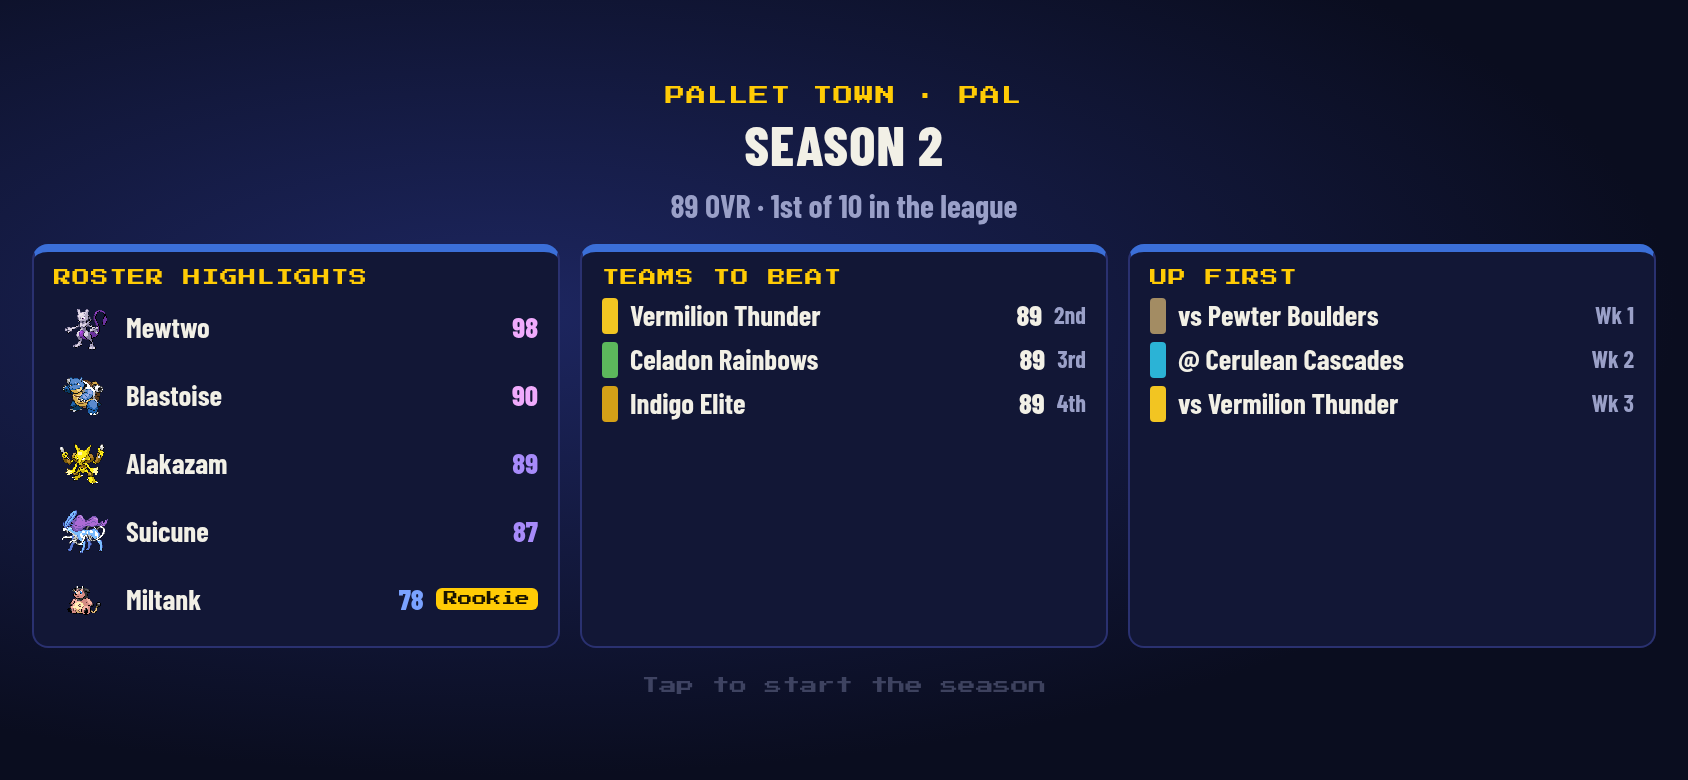
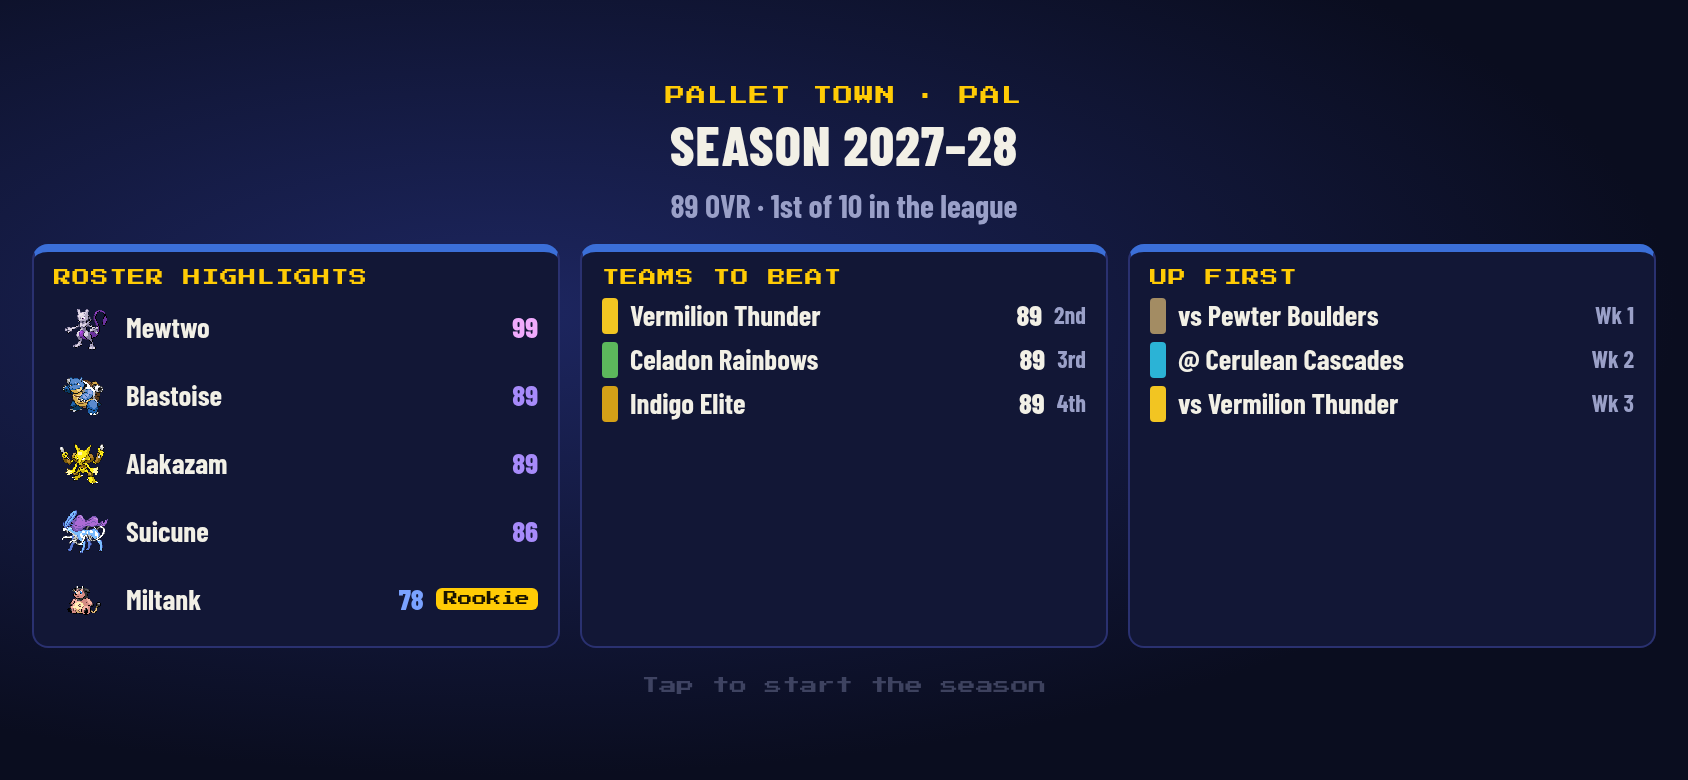
Franchise moments: year-range season labels (2026–27)

Changed region(s): [[0.4005, 0.1538, 0.6161, 0.2154], [0.2773, 0.4923, 0.3389, 0.5231], [0.3081, 0.6769, 0.3389, 0.7077]]

diff --git a/src/franchise/moments.test.ts b/src/franchise/moments.test.ts
@@ -101,11 +101,18 @@ describe('where the user finished', () => {
 describe('new-season preview trigger', () => {
   it('counts the season label up each year', () => {
     const f = league();
-    expect(seasonLabel(f.season)).toBe('Season 1');
+    expect(seasonLabel(f.season)).toBe('2026–27');
     nextSeason(f);
-    expect(seasonLabel(f.season)).toBe('Season 2');
+    expect(seasonLabel(f.season)).toBe('2027–28');
     nextSeason(f);
-    expect(seasonLabel(f.season)).toBe('Season 3');
+    expect(seasonLabel(f.season)).toBe('2028–29');
+  });
+
+  it('keeps the end year to two digits across decade and century boundaries', () => {
+    expect(seasonLabel(4)).toBe('2029–30');
+    expect(seasonLabel(73)).toBe('2098–99');
+    expect(seasonLabel(74)).toBe('2099–00');
+    expect(seasonLabel(75)).toBe('2100–01');
   });
 
   it('does not show in the first season, shows at the start of later ones, and only once', () => {

diff --git a/src/franchise/moments.ts b/src/franchise/moments.ts
@@ -3,8 +3,15 @@
 import { monOf, standings, teamOvrOf, type FGame, type FTeam, type Franchise } from './league';
 import { ordinal } from '../screens/draft.logic';
 
-/** Saves count seasons 1, 2, 3...: that is the label the hub, menu and news already use. */
-export const seasonLabel = (season: number) => `Season ${season}`;
+/** Season 1 starts in this year's autumn: 2025 + 1 = 2026. */
+export const BASE_YEAR = 2025;
+
+/** Saves count seasons 1, 2, 3...; shown as a year range: season 1 = "2026–27", season 74 = "2099–00". */
+export const seasonLabel = (season: number) => {
+  const start = BASE_YEAR + season;
+  const end = (start + 1) % 100;
+  return `${start}–${end < 10 ? '0' : ''}${end}`;
+};
 
 /** The cutscene plays once per season, right after the final ends and before the rookie draft. */
 export const shouldShowChampionship = (f: Franchise) =>

diff --git a/src/screens/moments.ts b/src/screens/moments.ts
@@ -135,7 +135,7 @@ export function newSeasonScreen(f: Franchise, done: () => void) {
     <div class="mo-body ns" style="--tc:${me.color};--tc2:${me.color2}">
       <div class="mo-head">
         <p class="eyebrow">${esc(me.name)} · ${esc(me.abbr)}</p>
-        <h1>${esc(seasonLabel(f.season))}</h1>
+        <h1>Season ${esc(seasonLabel(f.season))}</h1>
         <p class="mo-sub">${teamOvrOf(f, me)} OVR · ${ordinal(mine.rank)} of ${ranking.length} in the league</p>
       </div>
       <div class="ns-cols">
